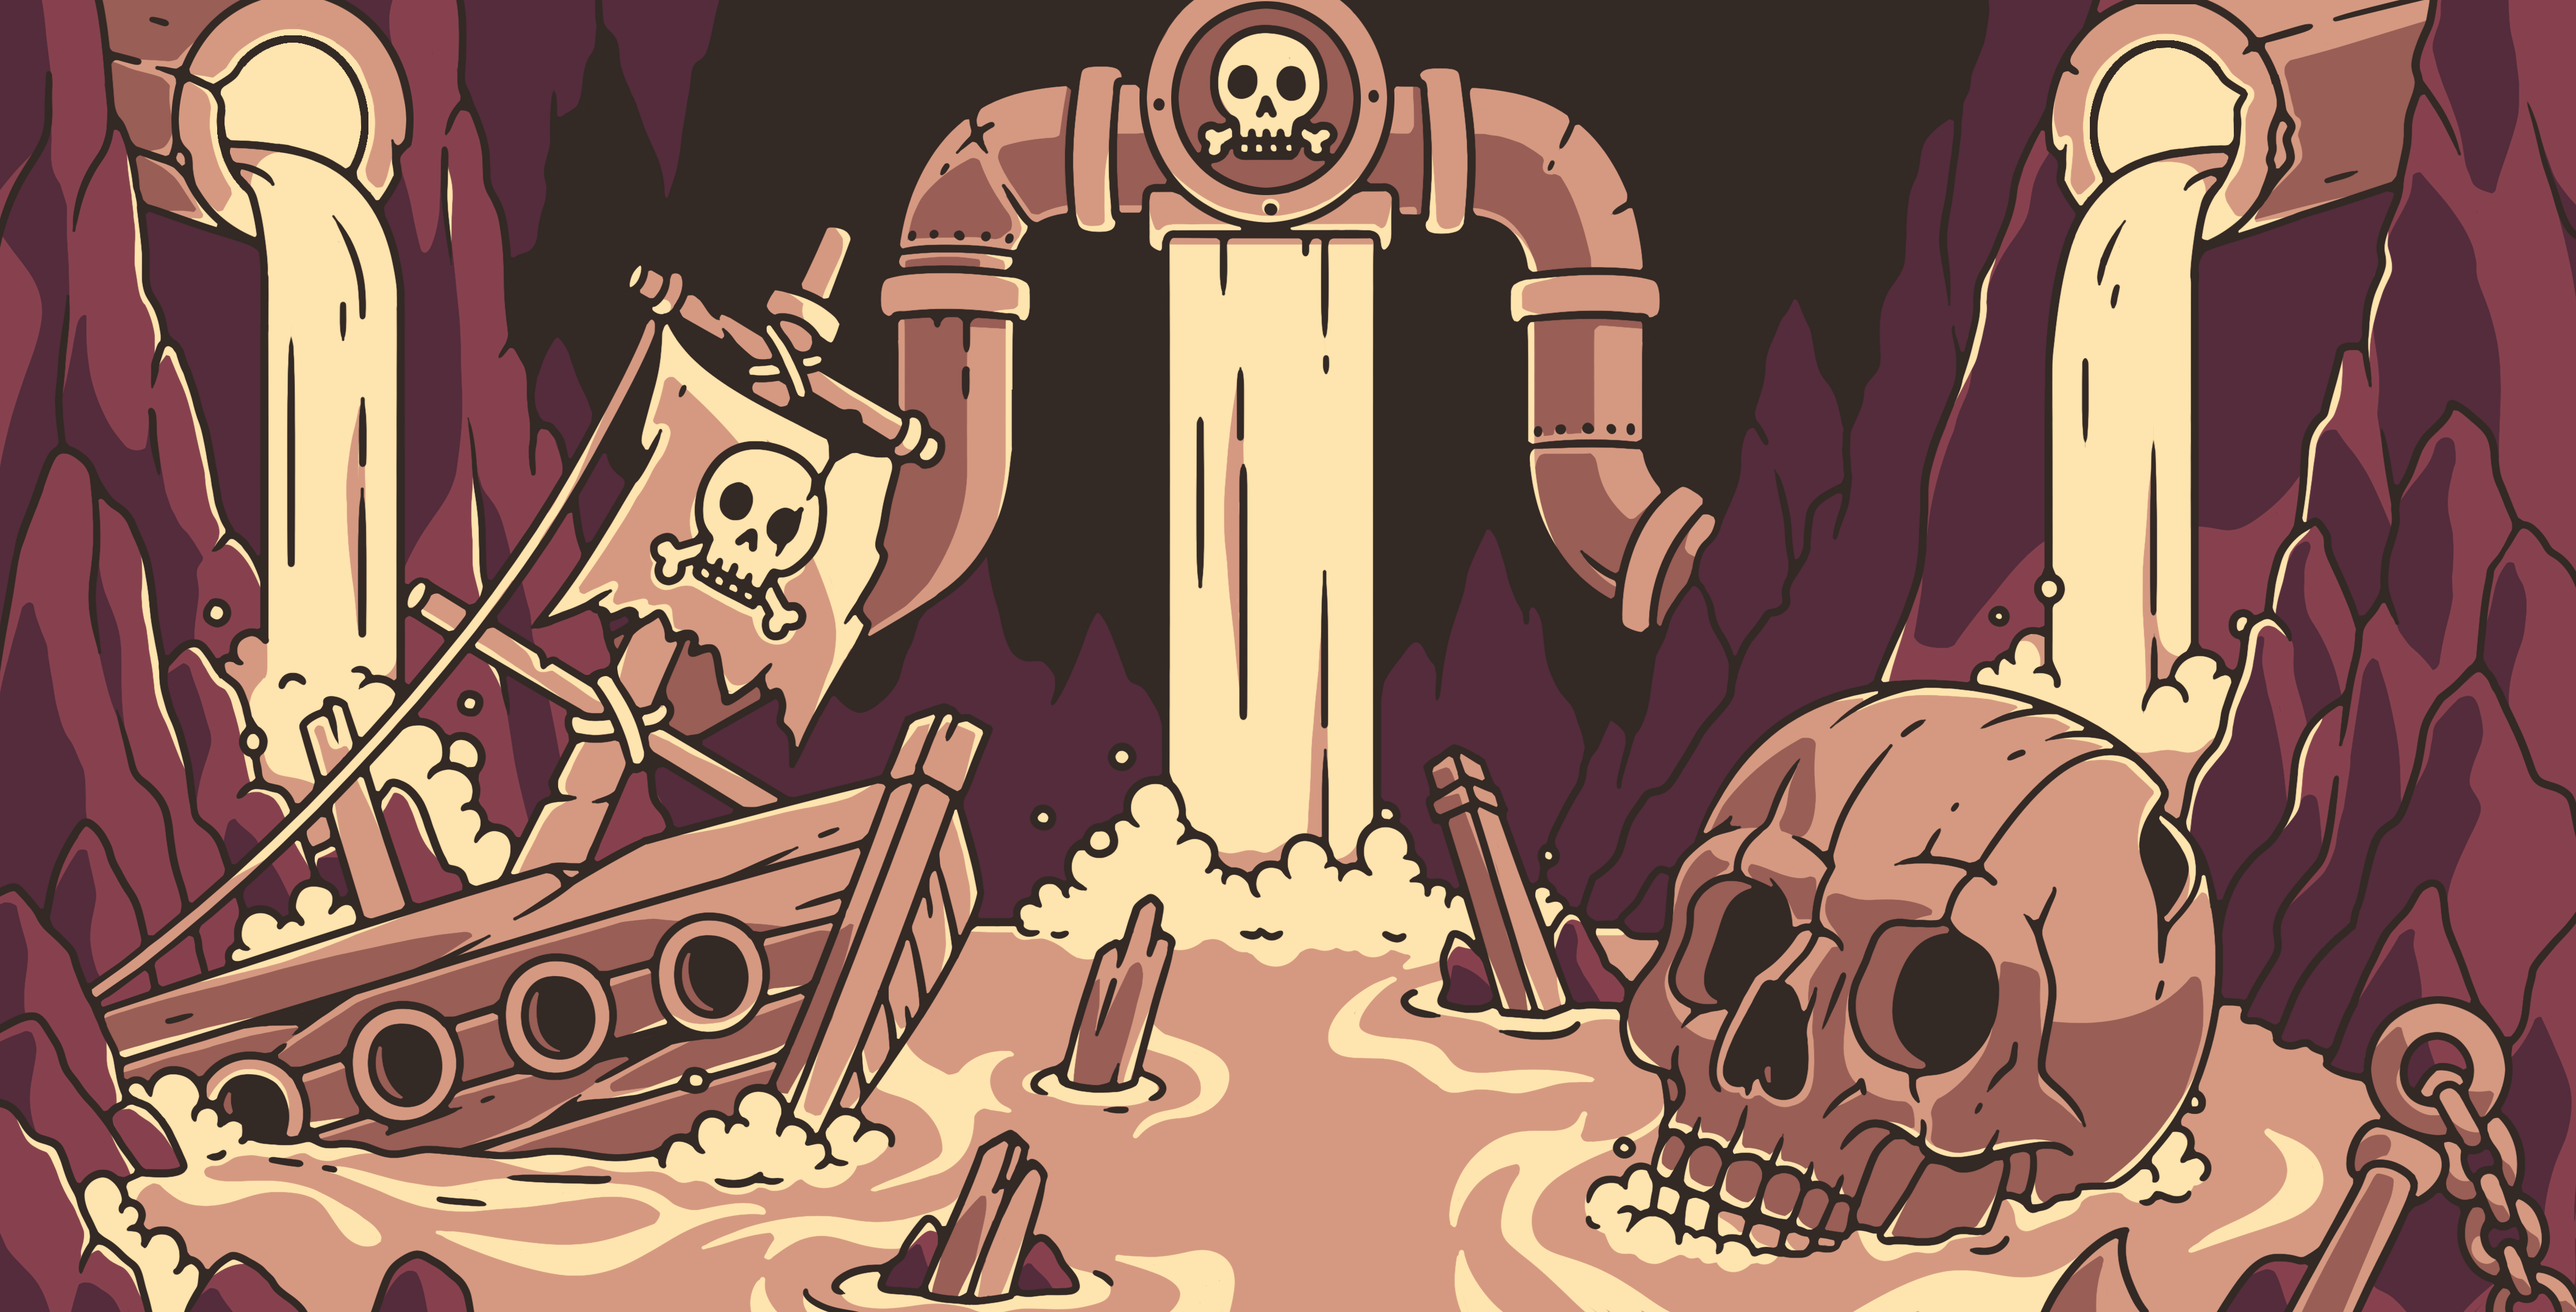
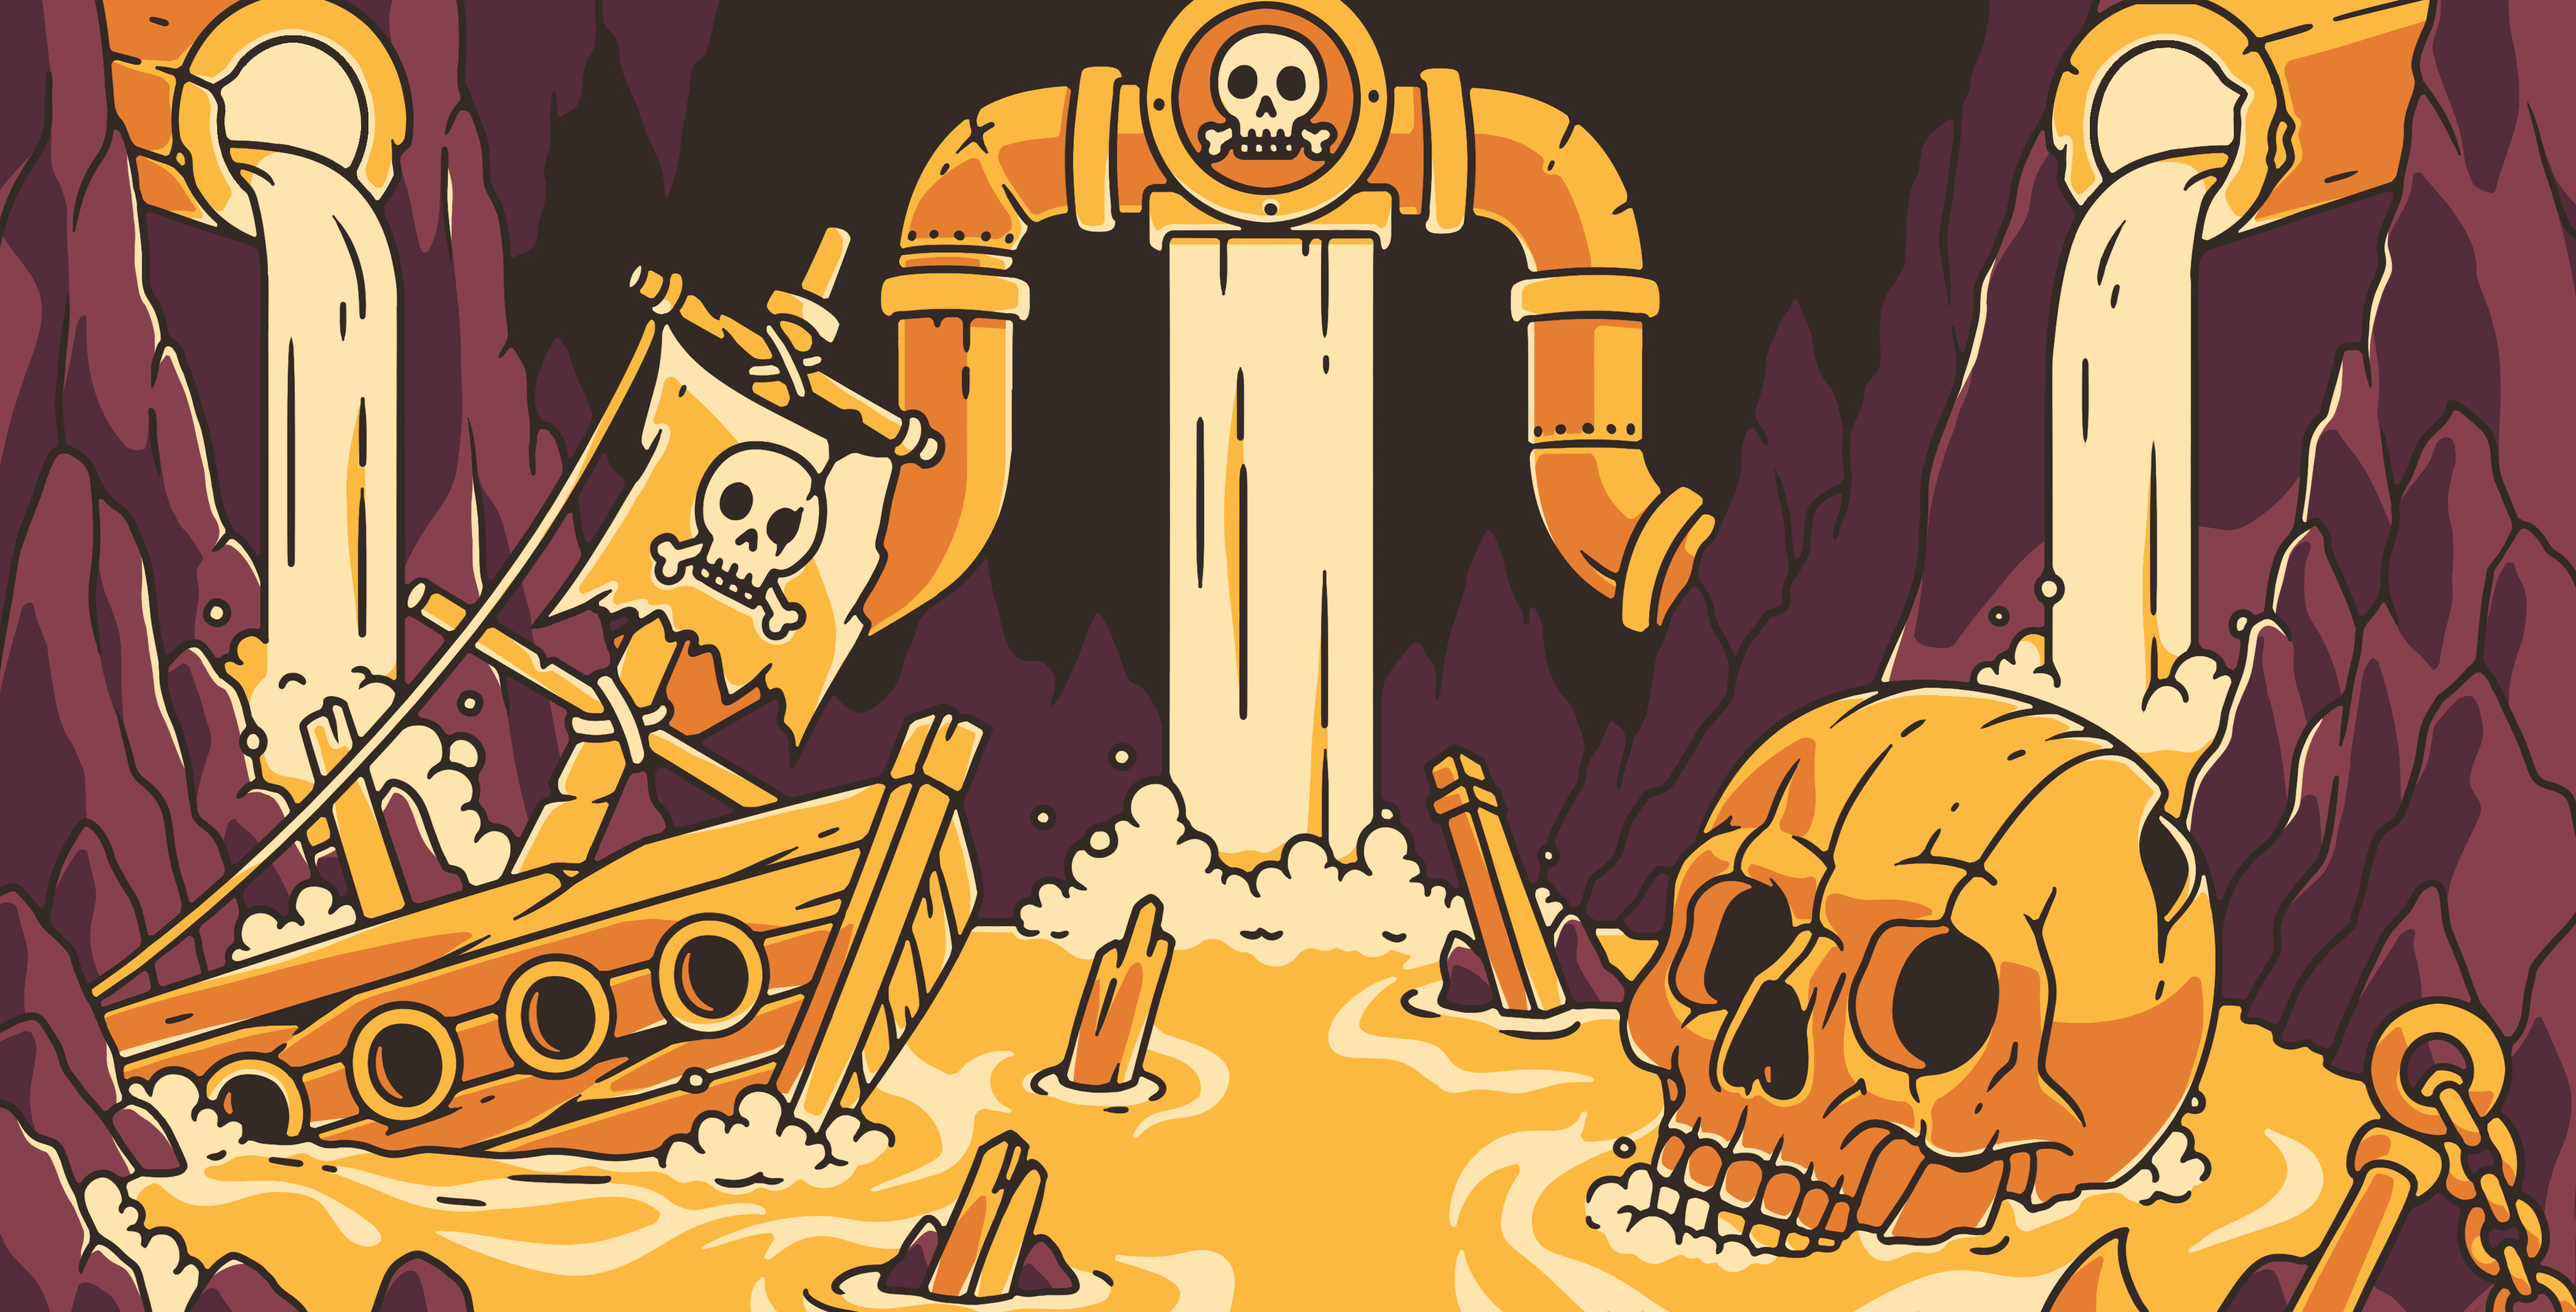
Defer first-player gold highlight until the indicator slides in, and add tier background art.
Player cards no longer show the active state on game start; highlighting now follows the indicator entrance like mid-game turns. Includes updated tier 2 art and new tier 3–6 backgrounds.

diff --git a/js/enter-the-undermurk.js b/js/enter-the-undermurk.js
@@ -795,8 +795,16 @@ function umPlayerSwitchDelayPending() {
 }
 
 function umHighlightedPlayerIndex() {
+  if (umIndicatorEntrancePending) {
+    return null;
+  }
+
   if (umPlayerSwitchDelayPending()) {
     return umLastIndicatorPlayerIndex;
+  }
+
+  if (umLastIndicatorPlayerIndex === null) {
+    return null;
   }
 
   return umState.currentIndex;
@@ -1577,6 +1585,7 @@ function initUndermurkGame(characters) {
 
   umBuildDOM();
   umSetTierBackground(umCurrentPlayer().tier);
+  umIndicatorEntrancePending = true;
   umUpdateHUD();
   updateElementSize();
   updateLineThickness();
